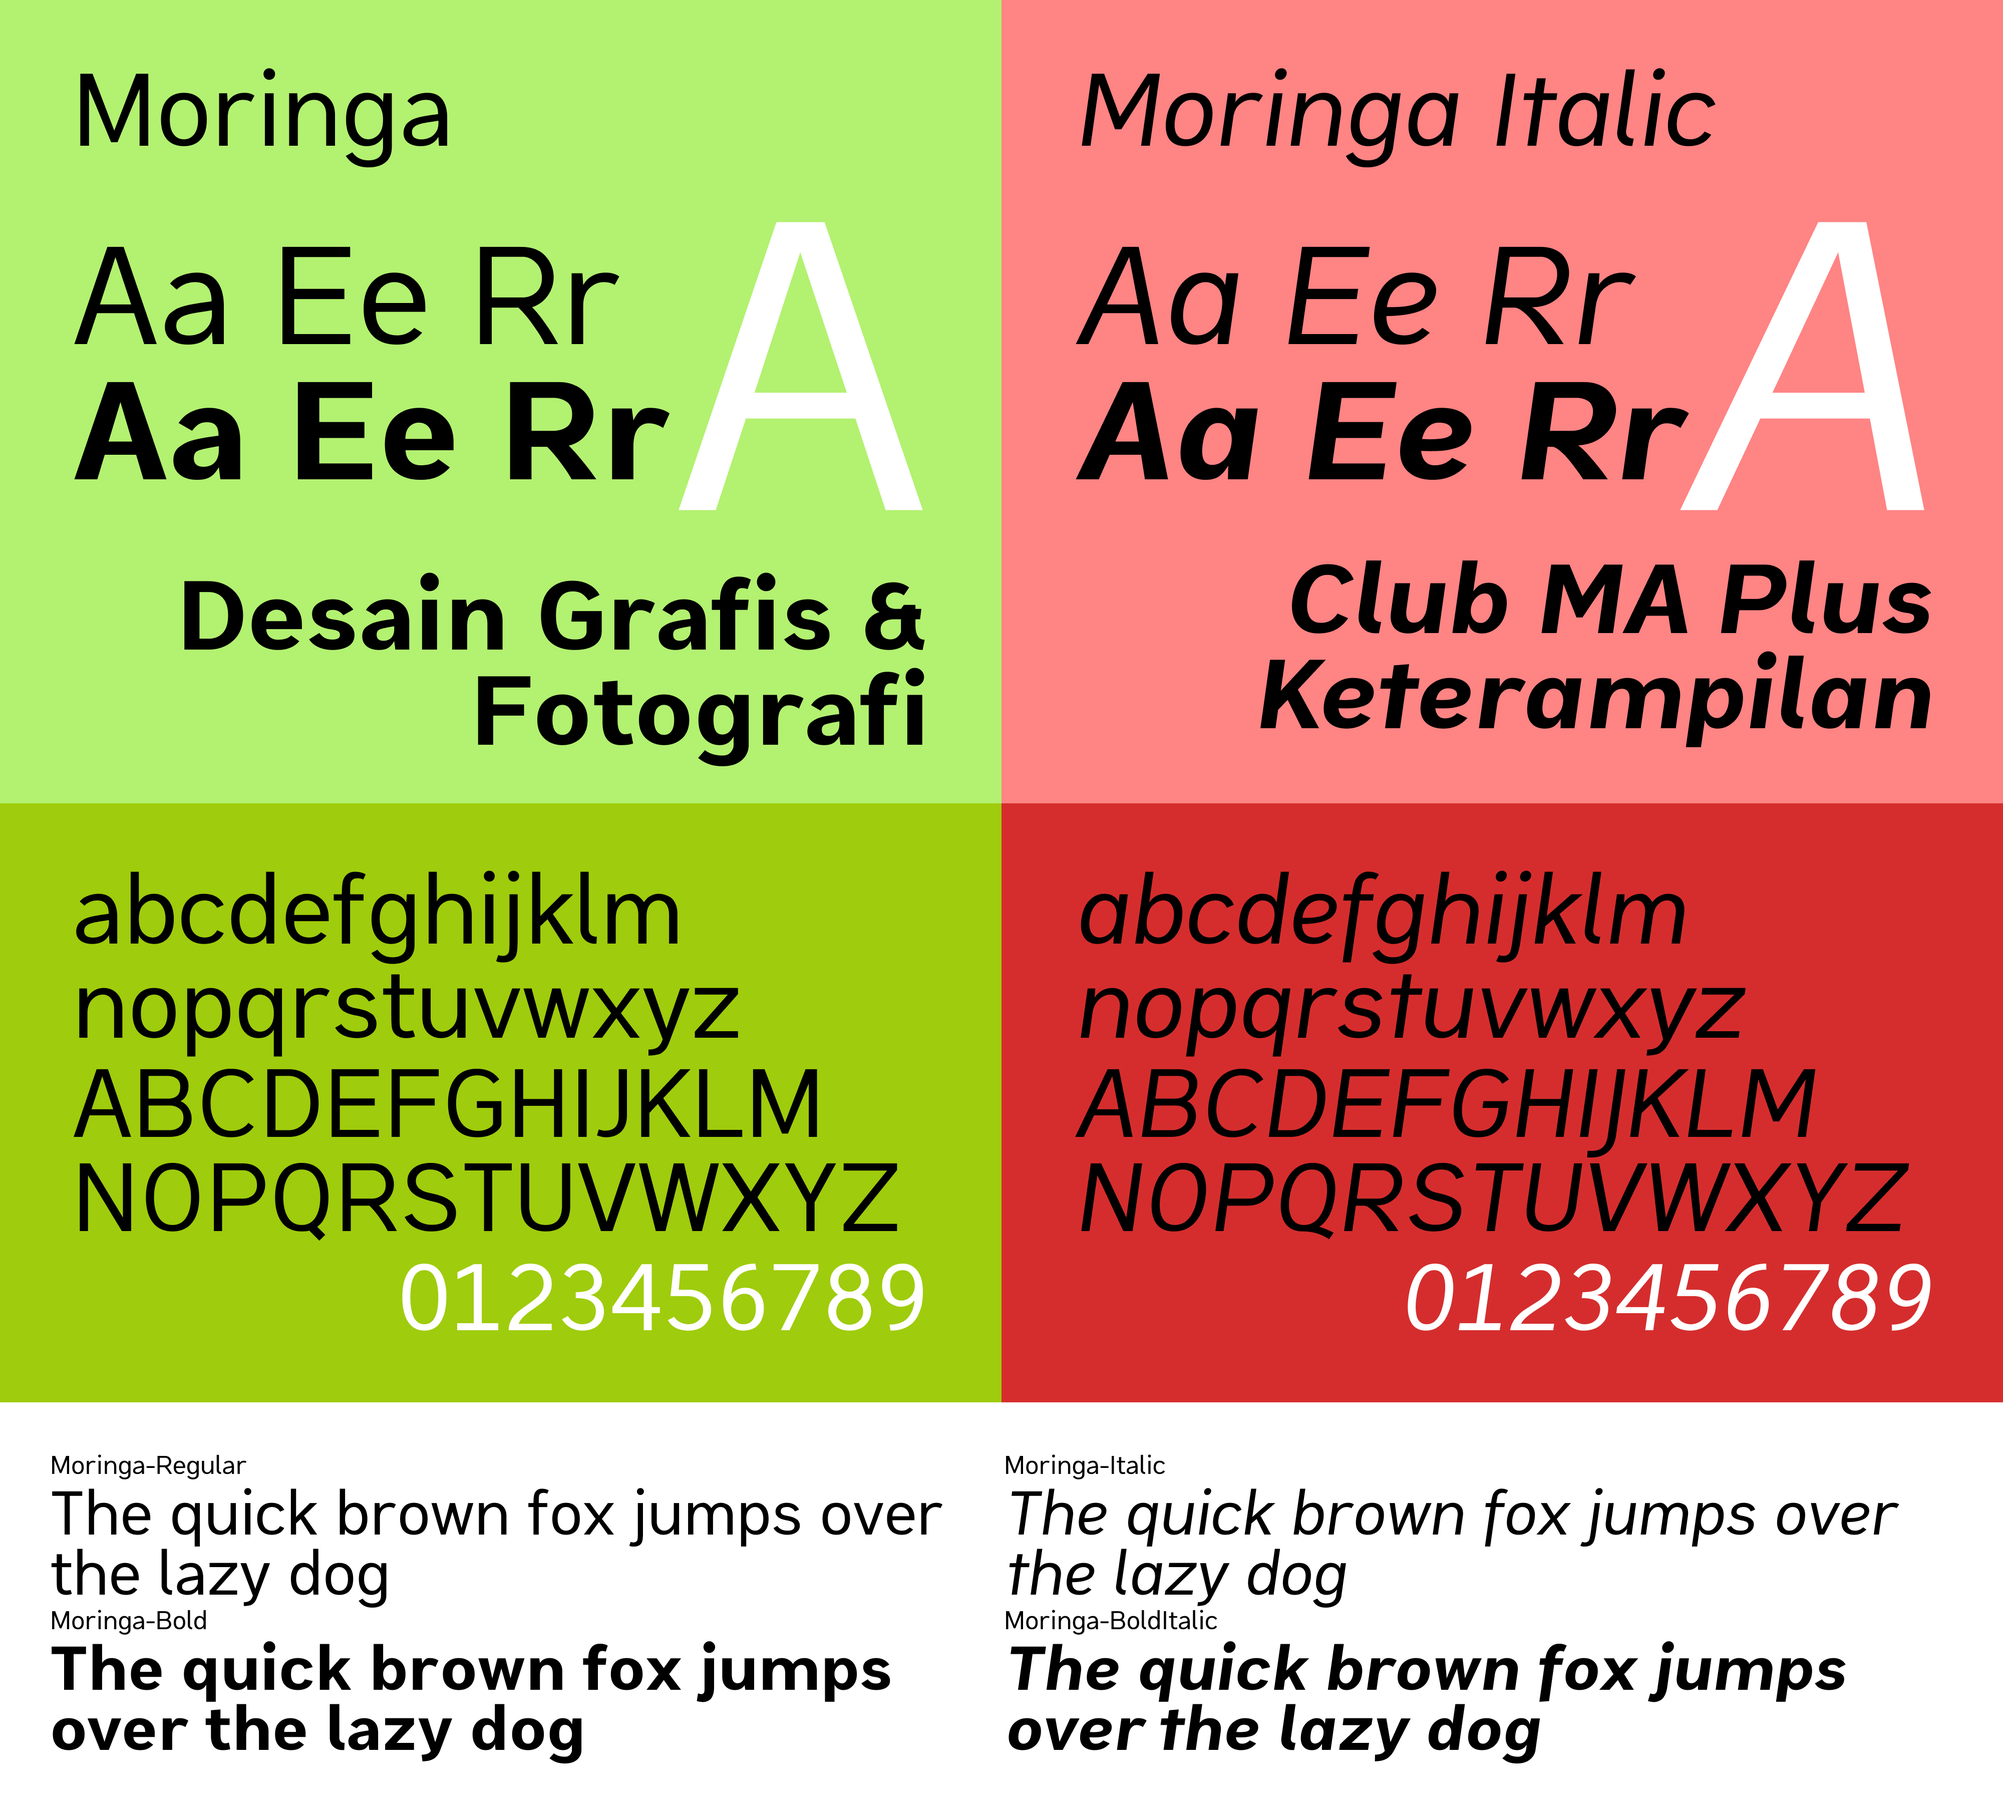
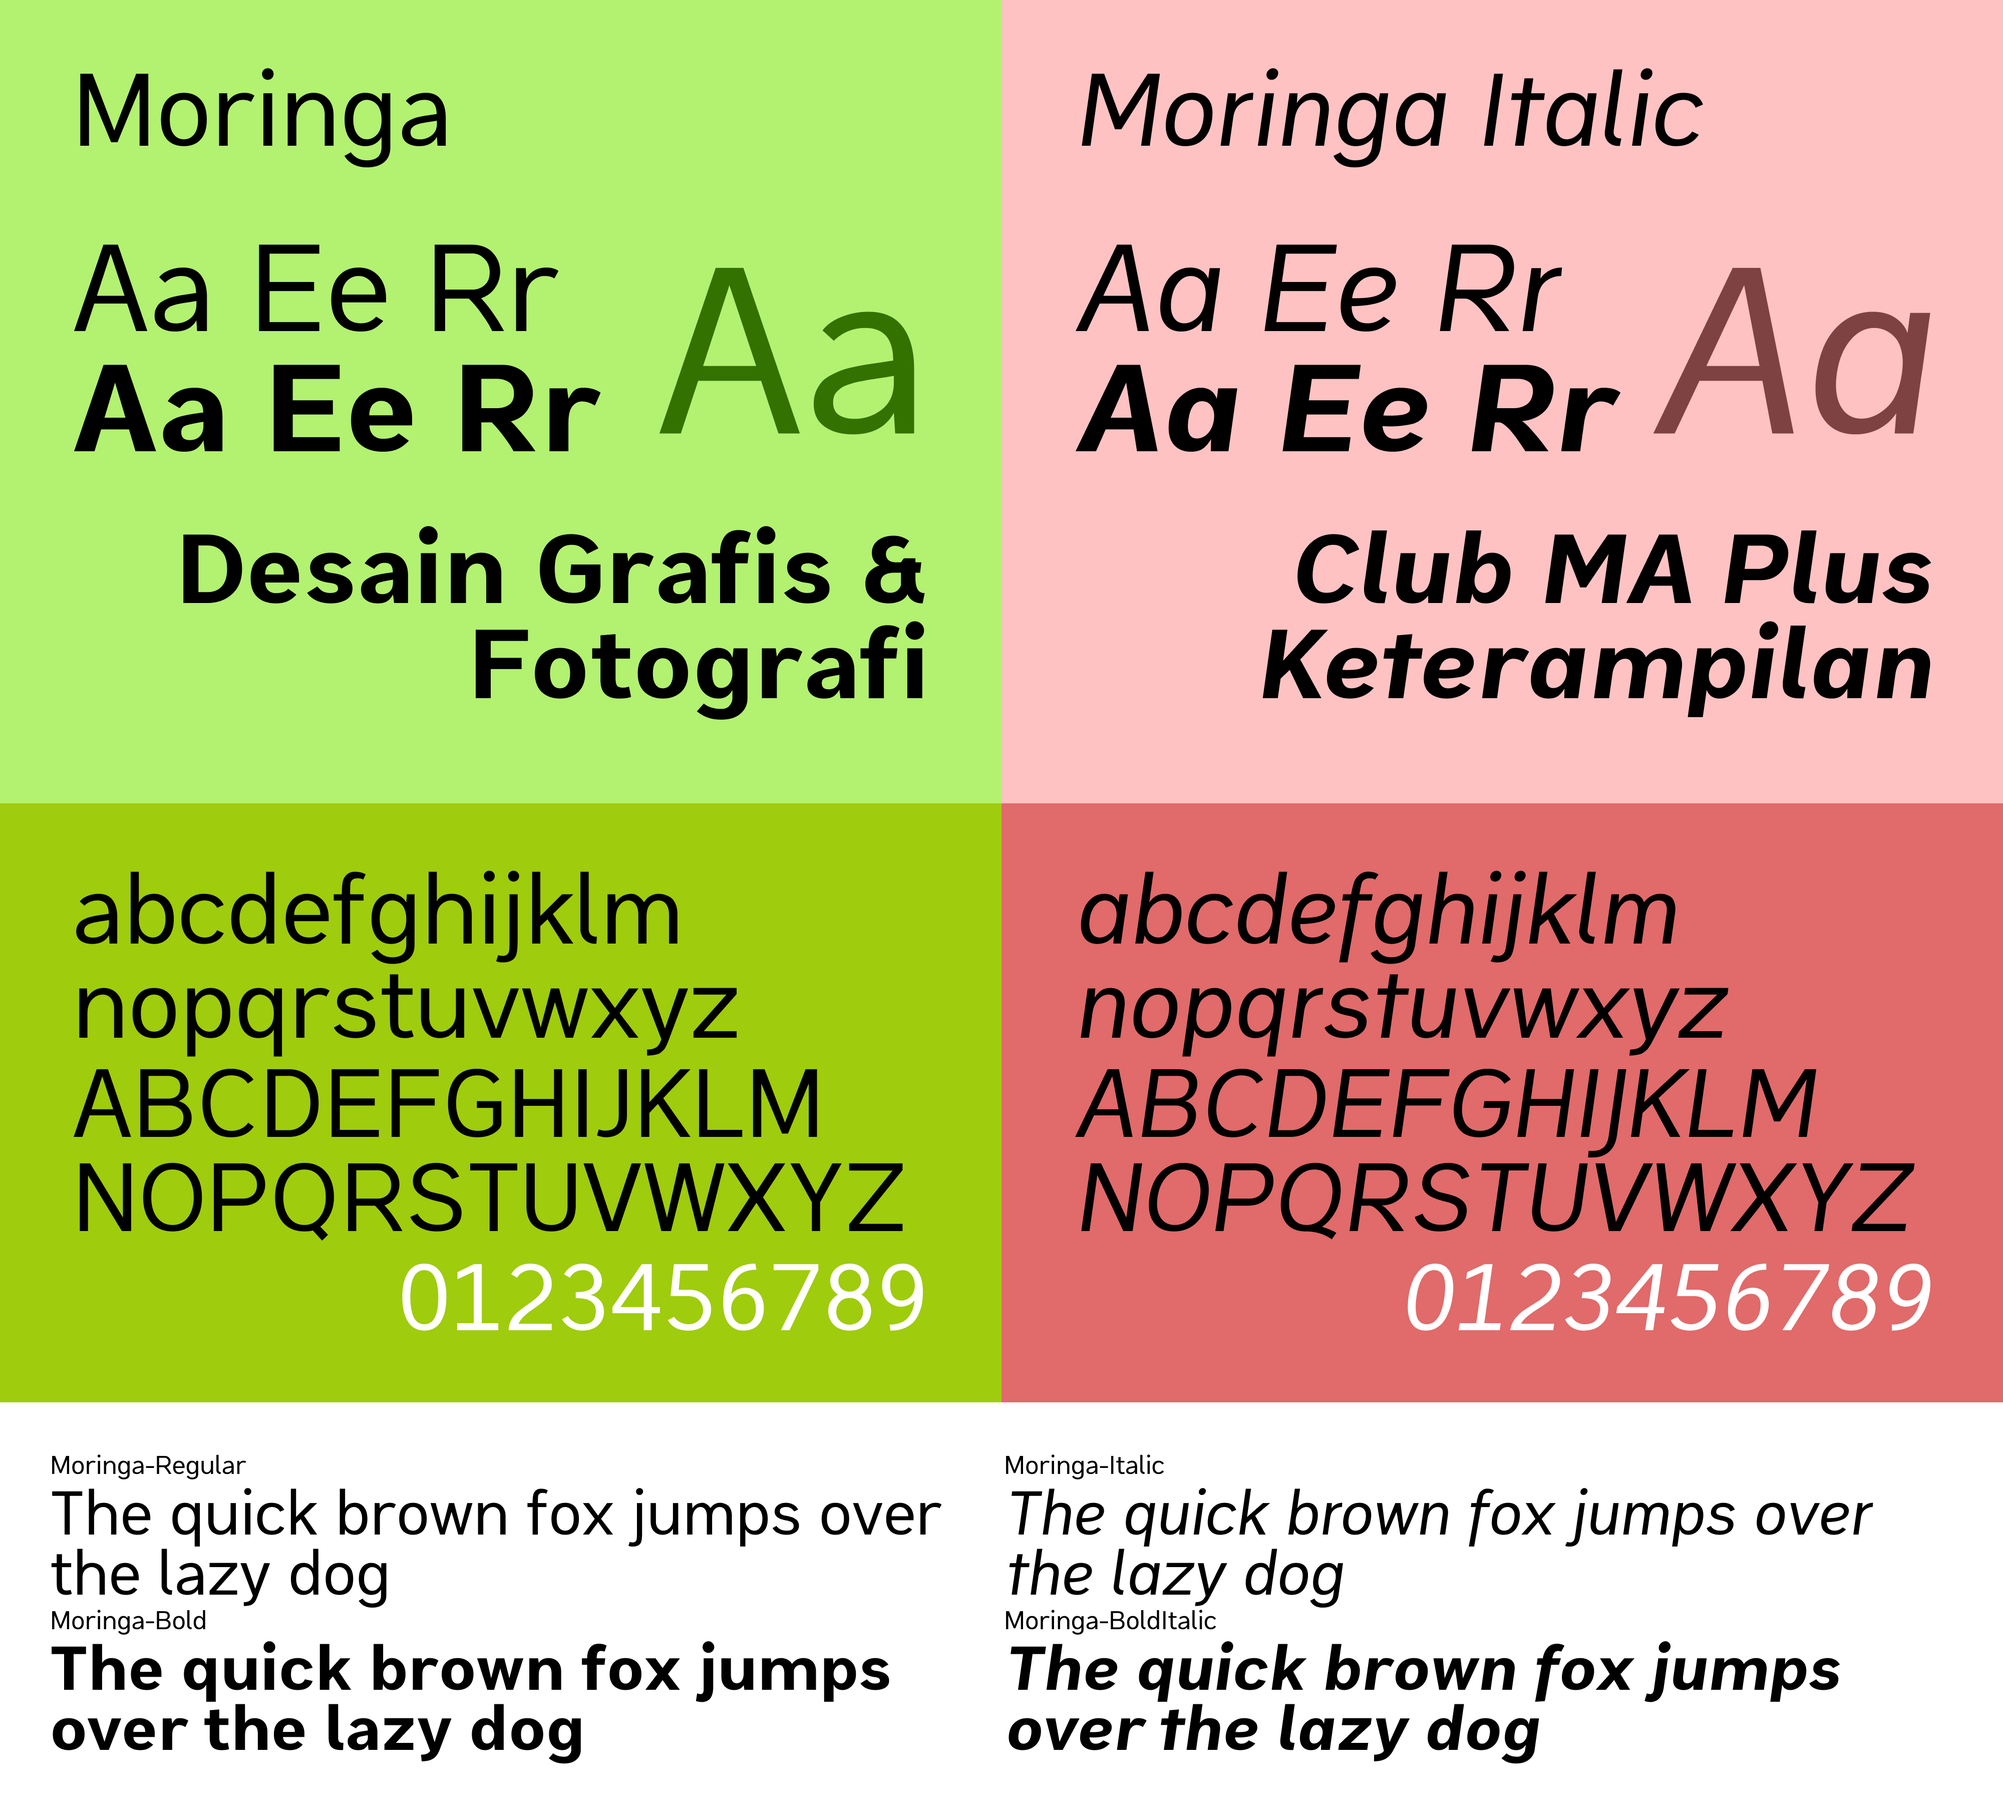
P'baiki lnk di readme & gbr spesimen

diff --git a/README.md b/README.md
@@ -22,9 +22,9 @@ Moringa adalah nama lain dari tanaman sayur kelor. Kelor adalah salah satu ciri 
 
 ## Download dan Gunakan Font Ini! <small>dalam desain anda</small>
 
-[Klik di sini](https://gitlab.com/kak_hilhilll/moringa-font/-/jobs/15186034618/artifacts/download?file_type=archive) untuk mengunduh dari Gitlab. Tersedia juga format UFO untuk pengerjaan di aplikasi lain.
+[Klik di sini](https://gitlab.com/kak_hilhilll/moringa-font/-/jobs/15398472189/artifacts/download?file_type=archive) untuk mengunduh dari Gitlab. Tersedia juga format UFO untuk pengerjaan di aplikasi lain.
 
-Dibuat secara otomatis oleh GitLab CI, pada tanggal 05 Juli 2026
+Dibuat secara otomatis oleh GitLab CI, pada tanggal 17 Juli 2026
 
 ## Spesimen
 

diff --git a/README.en.md b/README.en.md
@@ -20,9 +20,9 @@ Moringa is one of the distinguishing features of MAN Lumajang and the flagship p
 
 ## Download and Use This Font! <small>in your designs</small>
 
-[Click here](https://gitlab.com/kak_hilhilll/moringa-font/-/jobs/15186034618/artifacts/download?file_type=archive) to download from Gitlab. UFO format is also available for working with other apps.
+[Click here](https://gitlab.com/kak_hilhilll/moringa-font/-/jobs/15398472189/artifacts/download?file_type=archive) to download from Gitlab. UFO format is also available for working with other apps.
 
-Generated automatically by Gitlab CI, on 05 July 2026
+Generated automatically by Gitlab CI, on 17 July 2026
 
 ## Specimen
 
